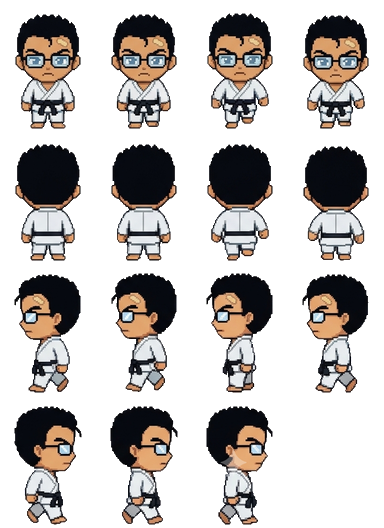
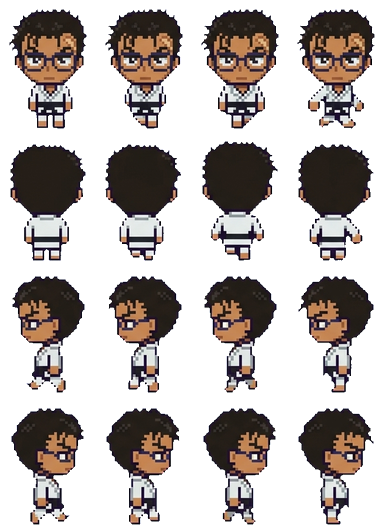
Redraw Kyogoku Makoto in the shared art style
Claude-Session: https://claude.ai/code/session_01KaPsBYLrtbRfMYNG2xeBCK

diff --git a/docs/app.js b/docs/app.js
@@ -75,7 +75,7 @@ function spr(cat, k, col, sc) {
   return `<div class="clip" style="width:${it[2] * sc}px;height:${it[3] * sc}px;POS"><img class="px" src="assets/decor/${cat}.png" alt="" style="width:${S.sw * sc}px;height:${S.sh * sc}px;margin-left:${-col * S.cw * sc}px;margin-top:${-i * S.ch * sc}px"></div>`;
 }
 const icon = (k, sz) => `<span class="itm" style="width:${sz}px;height:${sz}px"><img class="px" src="assets/ui/items.png" alt="" style="width:${IT.length * sz}px;height:${sz}px;margin-left:${-ITM[k].i * sz}px"></span>`;
-const face = (id, w) => { const s = w / 96; return `<img class="px" src="assets/ch/${id}.webp?v=37" alt="" style="position:absolute;width:${384 * s}px;height:${528 * s}px;left:${-(96 * s - w) / 2}px;top:0;max-width:none">`; };
+const face = (id, w) => { const s = w / 96; return `<img class="px" src="assets/ch/${id}.webp?v=38" alt="" style="position:absolute;width:${384 * s}px;height:${528 * s}px;left:${-(96 * s - w) / 2}px;top:0;max-width:none">`; };
 
 // ---------- 저장 ----------
 let fb = null, user = null, S = null, saveT = null;
@@ -143,7 +143,7 @@ function sleepHTML(id, r, dy) {
   const pos = r.a && r.a[0] === 'bed' ? 'left:3%;bottom:20%' : r.b && r.b[0] === 'bed' ? 'right:3%;bottom:20%' : 'left:calc(50% - 44px);bottom:6%';
   const s = 36 / 96;
   return `<div style="position:absolute;width:88px;height:56px;${pos};z-index:${dy ? 4 : 5};${dy ? `transform:translate(12px,${dy}px)` : ''}"><div style="position:absolute;inset:0;filter:brightness(.22)">
-    <div style="position:absolute;left:11px;top:1px;width:36px;height:50px;overflow:hidden;transform:rotate(-90deg)"><img class="px" src="assets/ch/${id}.webp?v=37" alt="" style="width:${384 * s}px;height:${528 * s}px;max-width:none;margin-top:${-132 * s}px"></div>
+    <div style="position:absolute;left:11px;top:1px;width:36px;height:50px;overflow:hidden;transform:rotate(-90deg)"><img class="px" src="assets/ch/${id}.webp?v=38" alt="" style="width:${384 * s}px;height:${528 * s}px;max-width:none;margin-top:${-132 * s}px"></div>
     <div style="position:absolute;left:19px;top:19px;width:67px;height:29px;border:2px solid var(--ink);border-radius:8px 6px 4px 4px;background:#8ccff5;background-image:repeating-linear-gradient(90deg,transparent 0 10px,rgba(255,255,255,.5) 10px 13px)"></div></div>
     ${dy ? '' : '<span class="emo" style="left:8px;top:-22px;color:#5b6bd6">Z z z</span>'}</div>`;
 }
@@ -153,8 +153,8 @@ function roomHTML(id, o, scale) {
     <div class="floor" style="background-color:${PAL[r.fc][1]};background-image:${tileUrl('floor', r.fl)}"></div>
     ${slot('deco', r.dc, 'left:6%;top:6%')}${slot('furn', r.a, 'left:3%;bottom:20%')}${slot('furn', r.b, 'right:3%;bottom:20%')}${slot('prop', r.pr, 'left:28%;bottom:4%;z-index:2')}
     ${id && o.sleeping && g ? sleepHTML(g, r, -16) : ''}${id && o.sleeping ? sleepHTML(id, r) : ''}${id && o.job ? `<div style="position:absolute;left:50%;top:38%;transform:translateX(-50%);z-index:5;background:#fff;border:3px solid var(--ink);border-radius:10px;padding:6px 10px;font-size:11px;text-align:center;line-height:1.5"><img src="assets/ui/ic_job.png" alt="" style="width:18px;vertical-align:-4px"> ${WORK[id] ? WORK[id][1] : esc(JOB_NAME[id]) + ' 알바 중'}${g ? `<br><small>${esc(nameOf(g))}도 같이</small>` : ''}<br><b id="jobleft">${timeLeft(o.job.until)}</b></div>` : ''}
-    ${id ? `<div class="shadow" id="shd" ${o.sleeping || o.job ? 'style="display:none"' : ''}></div><div class="man" id="man" ${o.sleeping || o.job ? 'style="display:none"' : ''}><img class="px" src="assets/ch/${id}.webp?v=37" alt="${esc(nameOf(id))}"></div><span class="emo" id="emo" hidden></span><span class="mumble" id="mum" hidden></span>` : ''}
-    ${g ? `<div class="shadow" id="gshd" ${hideG}></div><div class="man" id="gman" ${hideG}><img class="px" src="assets/ch/${g}.webp?v=37" alt="${esc(nameOf(g))}"></div><span class="emo" id="gemo" hidden></span><span class="mumble gmum" id="gmum" hidden></span>` : ''}
+    ${id ? `<div class="shadow" id="shd" ${o.sleeping || o.job ? 'style="display:none"' : ''}></div><div class="man" id="man" ${o.sleeping || o.job ? 'style="display:none"' : ''}><img class="px" src="assets/ch/${id}.webp?v=38" alt="${esc(nameOf(id))}"></div><span class="emo" id="emo" hidden></span><span class="mumble" id="mum" hidden></span>` : ''}
+    ${g ? `<div class="shadow" id="gshd" ${hideG}></div><div class="man" id="gman" ${hideG}><img class="px" src="assets/ch/${g}.webp?v=38" alt="${esc(nameOf(g))}"></div><span class="emo" id="gemo" hidden></span><span class="mumble gmum" id="gmum" hidden></span>` : ''}
     ${o.sleeping ? `<div class="night"></div><div class="sleepleft">쿨쿨 · 일어나기까지 <b id="sleepleft">${timeLeft(wakeAt(o)).replace(' 남음', '')}</b></div>` : ''}
   </div>`;
 }
@@ -167,7 +167,7 @@ function meterHTML(o) {
 const ic = (act, img, label, pressed) => `<button class="ic" data-act="${act}" ${pressed ? 'aria-pressed="true"' : ''}><img src="assets/ui/ic_${img}.png?v=2" alt="">${label}</button>`;
 
 let dropStyle = null; const cheat = {};
-const APP_V = 109, COUPONS = { NINOGUYA: 3000 };
+const APP_V = 110, COUPONS = { NINOGUYA: 3000 };
 // 쿠폰 입력 정리: 한글 자판 상태로 친 글자(ㅜㅑㅜㅐ혀ㅛㅁ)도 영어 자판 글자로 바꾸고, 대소문자·띄어쓰기·마침표는 무시해요
 const KEY = { ㄱ: 'r', ㄲ: 'R', ㄴ: 's', ㄷ: 'e', ㄸ: 'E', ㄹ: 'f', ㅁ: 'a', ㅂ: 'q', ㅃ: 'Q', ㅅ: 't', ㅆ: 'T', ㅇ: 'd', ㅈ: 'w', ㅉ: 'W', ㅊ: 'c', ㅋ: 'z', ㅌ: 'x', ㅍ: 'v', ㅎ: 'g',
   ㅏ: 'k', ㅐ: 'o', ㅑ: 'i', ㅒ: 'O', ㅓ: 'j', ㅔ: 'p', ㅕ: 'u', ㅖ: 'P', ㅗ: 'h', ㅘ: 'hk', ㅙ: 'ho', ㅚ: 'hl', ㅛ: 'y', ㅜ: 'n', ㅝ: 'nj', ㅞ: 'np', ㅟ: 'nl', ㅠ: 'b', ㅡ: 'm', ㅢ: 'ml', ㅣ: 'l',
@@ -407,7 +407,7 @@ function startTrip(k) {
   if (tg) lines[1] = `${nameOf(tg)}: ${withHim(sub(pick(GLX(tg).trip), o, c.n), tg)}`;
   const n = (FR[id] || [4, 4, 4, 4])[3], el = document.createElement('div'); el.className = 'tripview';
   el.innerHTML = `<div class="tsay"> </div><div class="tstage" style="background-image:url(assets/travel/${k}.png?v=2)"><div class="tplace">${esc(c.n)}</div>
-    <div class="twalker"><img class="px" src="assets/ch/${id}.webp?v=37" alt=""></div>${tg ? `<div class="twalker tgirl"><img class="px" src="assets/ch/${tg}.webp?v=37" alt=""></div>` : ''}<span class="emo tjoy">♪</span></div>
+    <div class="twalker"><img class="px" src="assets/ch/${id}.webp?v=38" alt=""></div>${tg ? `<div class="twalker tgirl"><img class="px" src="assets/ch/${tg}.webp?v=38" alt=""></div>` : ''}<span class="emo tjoy">♪</span></div>
     <div class="tbar"><i></i></div><button class="btn white tskip" data-tskip="1">바로 돌아오기</button>`;
   document.body.appendChild(el);
   const gimg = el.querySelector('.tgirl img'), gn = tg ? (FR[tg] || [4, 4, 4, 4])[3] : 1;
@@ -636,7 +636,7 @@ setInterval(() => { if (S && user) { tickTime(); save(); } }, 60000);
     if (nv > APP_V && !location.search.includes('u=' + nv)) { location.replace(location.pathname + '?u=' + nv); return; }
   } catch { }
   app.innerHTML = '<div class="start"><div class="egg"><div class="scr"></div></div><div class="note">불러오는 중....</div></div>';
-  const [c, t, f, it, mu, ct, tv, gl, sts] = await Promise.all(['data/chars.json', 'data/talk.json', 'data/frames.json', 'data/items.json', 'data/mumble.json', 'data/countries.json', 'data/travel.json', 'data/girls.json', 'data/sets.json'].map(u => fetch(u + '?v=109').then(r => r.ok ? r.json() : {})));
+  const [c, t, f, it, mu, ct, tv, gl, sts] = await Promise.all(['data/chars.json', 'data/talk.json', 'data/frames.json', 'data/items.json', 'data/mumble.json', 'data/countries.json', 'data/travel.json', 'data/girls.json', 'data/sets.json'].map(u => fetch(u + '?v=110').then(r => r.ok ? r.json() : {})));
   CH = c; CHM = Object.fromEntries(c.map(x => [x.id, x])); TALK = t; FR = f; IT = it; ITM = Object.fromEntries(it.map(x => [x.k, x])); MUM = mu; CTRY = ct; TRV = tv; GL = Array.isArray(gl) ? gl : []; SETS = Array.isArray(sts) ? sts : []; GLM = Object.fromEntries(GL.map(x => [x.id, x]));
   try { await initFirebase(); } catch (e) { console.warn('Firebase 연결 실패, 기기 저장으로', e); fb = null; }
   if (fb) {

diff --git a/docs/index.html b/docs/index.html
@@ -18,6 +18,6 @@
 <main id="app" aria-live="polite"></main>
 <div id="toast" role="status" hidden></div>
 <script src="firebase-config.js?v=3"></script>
-<script type="module" src="app.js?v=109"></script>
+<script type="module" src="app.js?v=110"></script>
 </body>
 </html>
